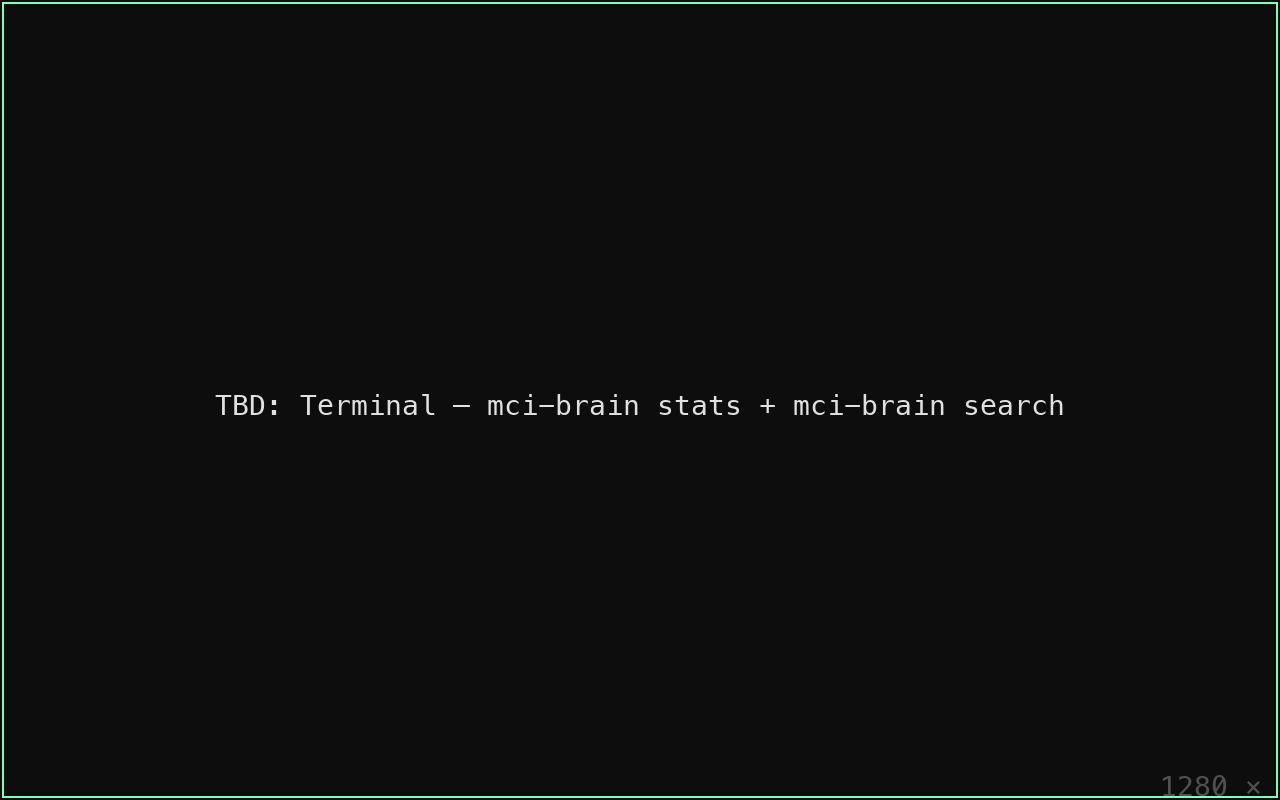
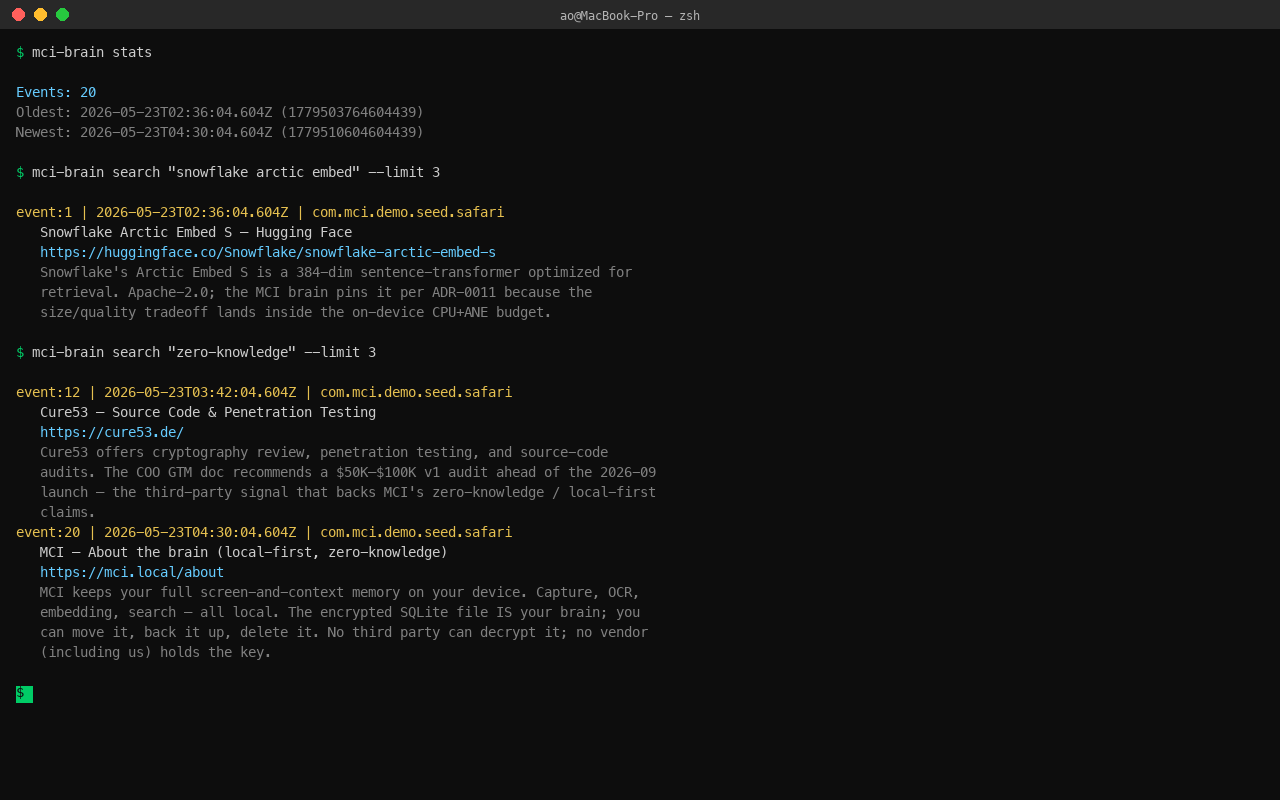
docs(screenshots): real CLI screenshot + improved regen recipe + scripted capture (#149)
Replace hero-cli.png placeholder with real mci-brain output rendered from the
seed brain (11KB placeholder → 83KB real terminal render). Add
render-cli-screenshot.py for reproducible programmatic CLI screenshots.

Improve docs/screenshots-regen.md with prereq verification, expected outcomes,
troubleshooting per shot, and metadata/privacy check procedures.

Add `demo.sh screenshot --auto` non-interactive subcommand that renders the CLI
shot programmatically and attempts GUI captures via screencapture -l. Expand
interactive mode to cover all 4 shots with auto-resize to 1280x800.

GUI screenshots (recall-ui, hippocampus-menu, onboarding-trust-panel) remain
placeholders — TCC Accessibility/Screen Recording permissions block
non-interactive capture from an agent process.

No protected-set touch.

diff --git a/scripts/render-cli-screenshot.py b/scripts/render-cli-screenshot.py
@@ -1,0 +1,178 @@
+#!/usr/bin/env python3
+"""Render hero-cli.png from real mci-brain output against the seed brain.
+
+Requires: Pillow (`pip3 install Pillow`), seed brain populated
+(`scripts/demo.sh seed`), and mci-brain built (`cargo build --release
+--bin mci-brain`).
+
+Outputs: assets/screenshots/hero-cli.png (1280x800, ~70KB, no metadata).
+"""
+
+import os
+import subprocess
+import sys
+
+try:
+    from PIL import Image, ImageDraw, ImageFont
+except ImportError:
+    print("ERROR: Pillow not installed. Run: pip3 install Pillow", file=sys.stderr)
+    sys.exit(1)
+
+REPO = os.path.dirname(os.path.dirname(os.path.abspath(__file__)))
+BRAIN = os.path.join(REPO, "target", "release", "mci-brain")
+OUT = os.path.join(REPO, "assets", "screenshots", "hero-cli.png")
+
+KEY_FILE = "/tmp/mci-demo-key.hex"
+DB_PATH = os.path.expanduser("~/Library/Application Support/MCI/mci.sqlite")
+
+if not os.path.exists(BRAIN):
+    print(f"ERROR: {BRAIN} not found. Run: cargo build --release --bin mci-brain", file=sys.stderr)
+    sys.exit(1)
+
+if not os.path.exists(KEY_FILE):
+    print(f"ERROR: {KEY_FILE} not found. Run: scripts/demo.sh seed", file=sys.stderr)
+    sys.exit(1)
+
+env = os.environ.copy()
+env["MCI_DB_KEY_HEX"] = open(KEY_FILE).read().strip()
+env["MCI_DB_PATH"] = DB_PATH
+
+
+def run_brain(*args):
+    r = subprocess.run([BRAIN] + list(args), capture_output=True, text=True, env=env)
+    return r.stdout.strip()
+
+
+stats_out = run_brain("stats")
+search1_out = run_brain("search", "snowflake arctic embed", "--limit", "3")
+search2_out = run_brain("search", "zero-knowledge", "--limit", "3")
+
+if not stats_out:
+    print("ERROR: mci-brain stats returned empty. Check seed brain.", file=sys.stderr)
+    sys.exit(1)
+
+# --- Render ---
+
+WIDTH, HEIGHT = 1280, 800
+BG = (13, 13, 13)
+FG = (204, 204, 204)
+GREEN = (0, 204, 102)
+CYAN = (102, 204, 255)
+YELLOW = (229, 192, 80)
+DIM = (128, 128, 128)
+
+FONT_SIZE = 14
+LINE_HEIGHT = 20
+
+FONT_PATH = "/System/Library/Fonts/Menlo.ttc"
+if not os.path.exists(FONT_PATH):
+    FONT_PATH = "/System/Library/Fonts/Supplemental/Menlo.ttc"
+if not os.path.exists(FONT_PATH):
+    print("WARNING: Menlo.ttc not found, using default font", file=sys.stderr)
+    FONT_PATH = None
+
+FONT = ImageFont.truetype(FONT_PATH, FONT_SIZE) if FONT_PATH else ImageFont.load_default()
+
+img = Image.new("RGB", (WIDTH, HEIGHT), BG)
+draw = ImageDraw.Draw(img)
+
+TITLE_BAR_H = 28
+draw.rectangle([0, 0, WIDTH, TITLE_BAR_H], fill=(40, 40, 40))
+for i, color in enumerate([(255, 96, 92), (255, 189, 46), (39, 201, 63)]):
+    draw.ellipse([12 + i * 22, 8, 24 + i * 22, 20], fill=color)
+title_font = ImageFont.truetype(FONT_PATH, 12) if FONT_PATH else ImageFont.load_default()
+draw.text((WIDTH // 2 - 80, 8), "@MacBook-Pro — zsh", fill=(180, 180, 180), font=title_font)
+
+x = 16
+y = TITLE_BAR_H + 16
+
+
+def text(txt, color=FG, indent=0):
+    global y
+    draw.text((x + indent, y), txt, fill=color, font=FONT)
+    y += LINE_HEIGHT
+
+
+def prompt(cmd):
+    global y
+    p = "$ "
+    draw.text((x, y), p, fill=GREEN, font=FONT)
+    draw.text((x + FONT.getlength(p), y), cmd, fill=FG, font=FONT)
+    y += LINE_HEIGHT
+
+
+def blank():
+    global y
+    y += LINE_HEIGHT
+
+
+MAX_COL = 82
+
+
+def wrap_text(s, col=MAX_COL):
+    lines = []
+    words = s.split()
+    cur = []
+    length = 0
+    for w in words:
+        if length + len(w) + 1 > col and cur:
+            lines.append(" ".join(cur))
+            cur = [w]
+            length = len(w)
+        else:
+            cur.append(w)
+            length += len(w) + 1
+    if cur:
+        lines.append(" ".join(cur))
+    return lines
+
+
+def render_output(raw):
+    for line in raw.split("\n"):
+        if line.startswith("event:"):
+            parts = line.split(" | ", 3)
+            header = " | ".join(parts[:3]) if len(parts) >= 3 else line
+            text(header, YELLOW)
+            if len(parts) >= 4:
+                title_url_body = parts[3]
+                sub = title_url_body.split(" | ")
+                for s in sub:
+                    s = s.strip()
+                    if s.startswith("http"):
+                        text("  " + s[:MAX_COL], CYAN, indent=8)
+                    elif len(s) > MAX_COL - 4:
+                        for wl in wrap_text(s, MAX_COL - 4):
+                            text("  " + wl, DIM, indent=8)
+                    else:
+                        text("  " + s, FG, indent=8)
+        elif line.startswith("Events:"):
+            text(line, CYAN)
+        elif line.startswith("Oldest:") or line.startswith("Newest:"):
+            text(line, DIM)
+        else:
+            text(line, FG)
+
+
+prompt("mci-brain stats")
+blank()
+render_output(stats_out)
+blank()
+
+prompt('mci-brain search "snowflake arctic embed" --limit 3')
+blank()
+render_output(search1_out)
+blank()
+
+prompt('mci-brain search "zero-knowledge" --limit 3')
+blank()
+render_output(search2_out)
+blank()
+
+pw = FONT.getlength("$ ")
+draw.rectangle([x, y + 2, x + pw, y + LINE_HEIGHT - 2], fill=GREEN)
+draw.text((x, y), "$ ", fill=BG, font=FONT)
+
+img.save(OUT, "PNG", optimize=True)
+size = os.path.getsize(OUT)
+print(f"Saved: {OUT}")
+print(f"Size: {size} bytes ({size / 1024:.0f} KB)")
